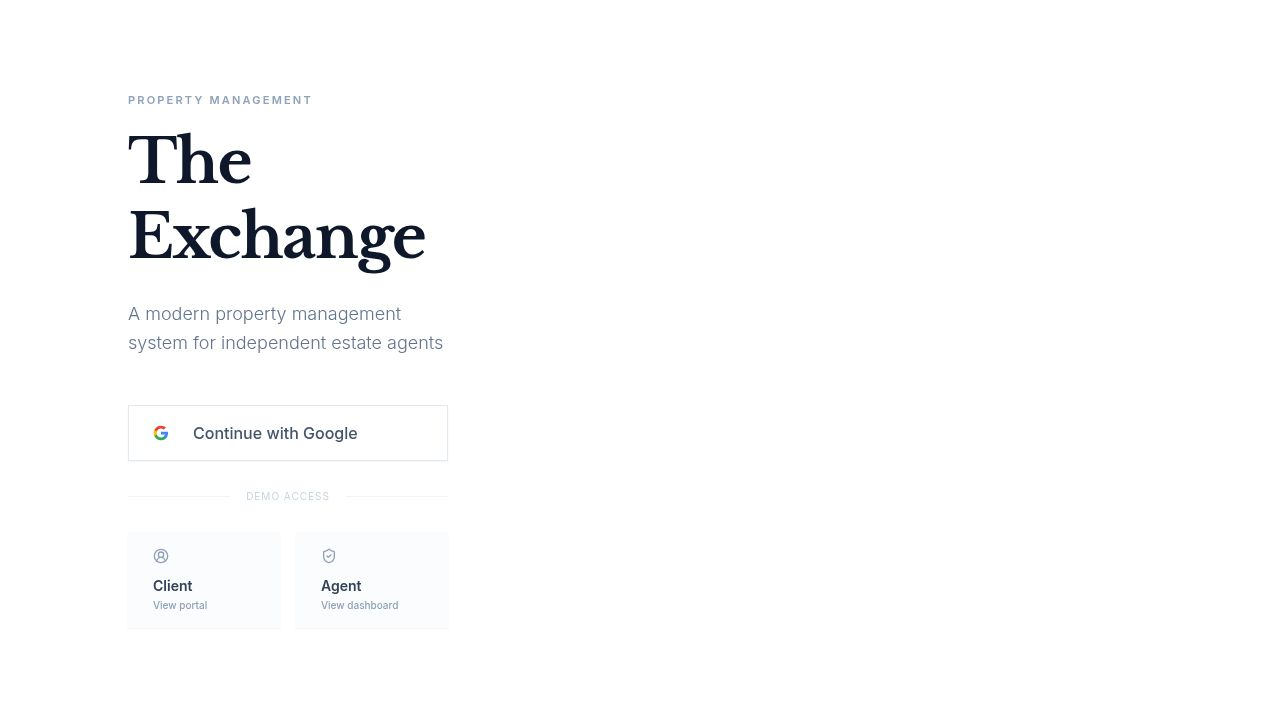
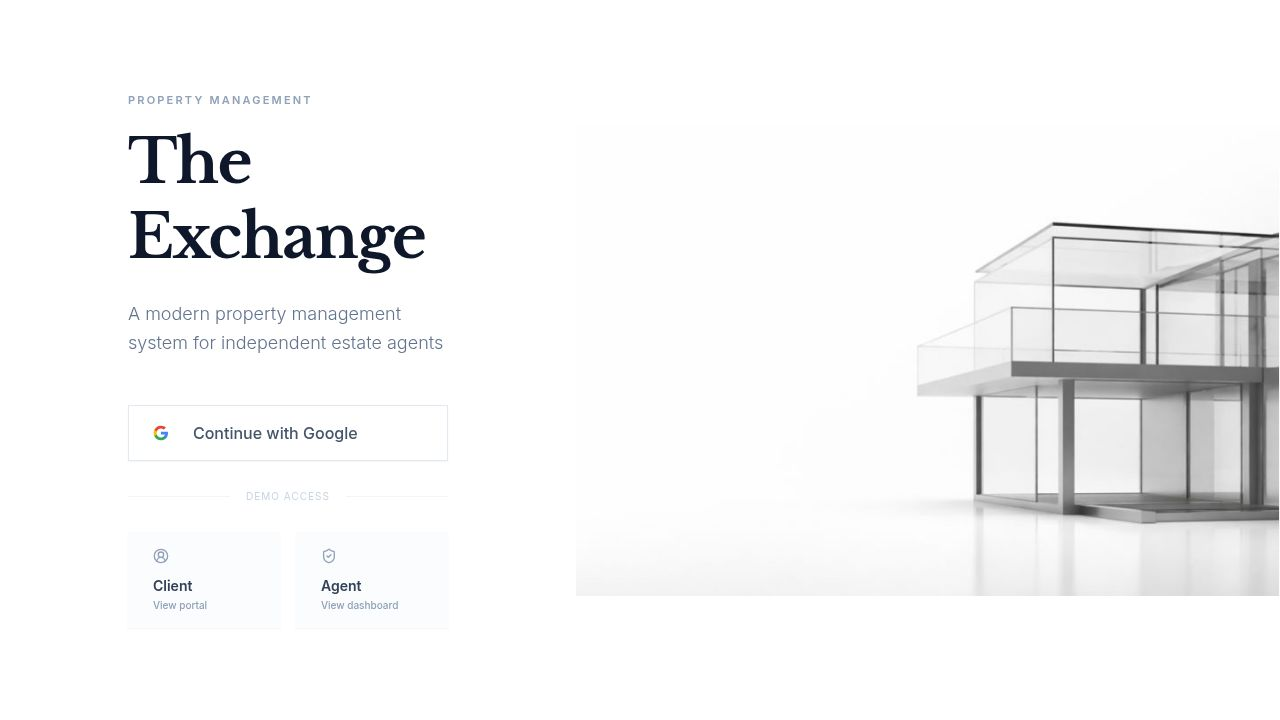
Integrate new house image seamlessly into the login screen background
Update login page to use a new house image asset (`login-house-real.jpg`), adjust styling for seamless blending with a white background using `mix-blend-multiply`, and ensure it fits within a non-scrolling viewport via `object-contain` and `h-screen`.

Replit-Commit-Author: Agent
Replit-Commit-Session-Id: bc4e0a19-f462-4ac8-a169-d508157fc7dc
Replit-Commit-Checkpoint-Type: full_checkpoint
Replit-Commit-Event-Id: bc3e2eec-b961-4905-9304-d71f51e54597
Replit-Commit-Screenshot-Url: https://storage.googleapis.com/screenshot-production-us-central1/a48ec8dd-0591-49b6-9a97-9aeafa1d44f5/bc4e0a19-f462-4ac8-a169-d508157fc7dc/Qg4ALod
Replit-Helium-Checkpoint-Created: true

diff --git a/client/src/pages/Login.tsx b/client/src/pages/Login.tsx
@@ -1,7 +1,7 @@
 import { Button } from "@/components/ui/button";
 import { Link } from "wouter";
 import { ShieldCheck, UserCircle2 } from "lucide-react";
-import loginHouseFinal from "@/assets/login-house-final.png";
+import loginHouseReal from "@/assets/login-house-real.jpg";
 
 export default function Login() {
   return (
@@ -79,14 +79,14 @@ export default function Login() {
       {/* Right Column: Image - Seamless integration */}
       <div className="hidden md:flex flex-1 relative h-full bg-white items-center justify-center overflow-hidden">
         {/* 
-            mix-blend-multiply helps the image background blend perfectly with the page background 
-            if there are slight color variations.
-            object-contain ensures it fits within the screen without scrolling.
+            Using the real glass house image.
+            mix-blend-multiply ensures the white background of the image blends perfectly with the div's white background.
+            object-contain ensures the whole house including shadow is visible.
         */}
         <img 
-          src={loginHouseFinal}
+          src={loginHouseReal}
           alt="Modern minimalist architecture" 
-          className="w-full h-full object-contain mix-blend-multiply p-12"
+          className="w-full h-full object-contain mix-blend-multiply p-0"
         />
       </div>
 
